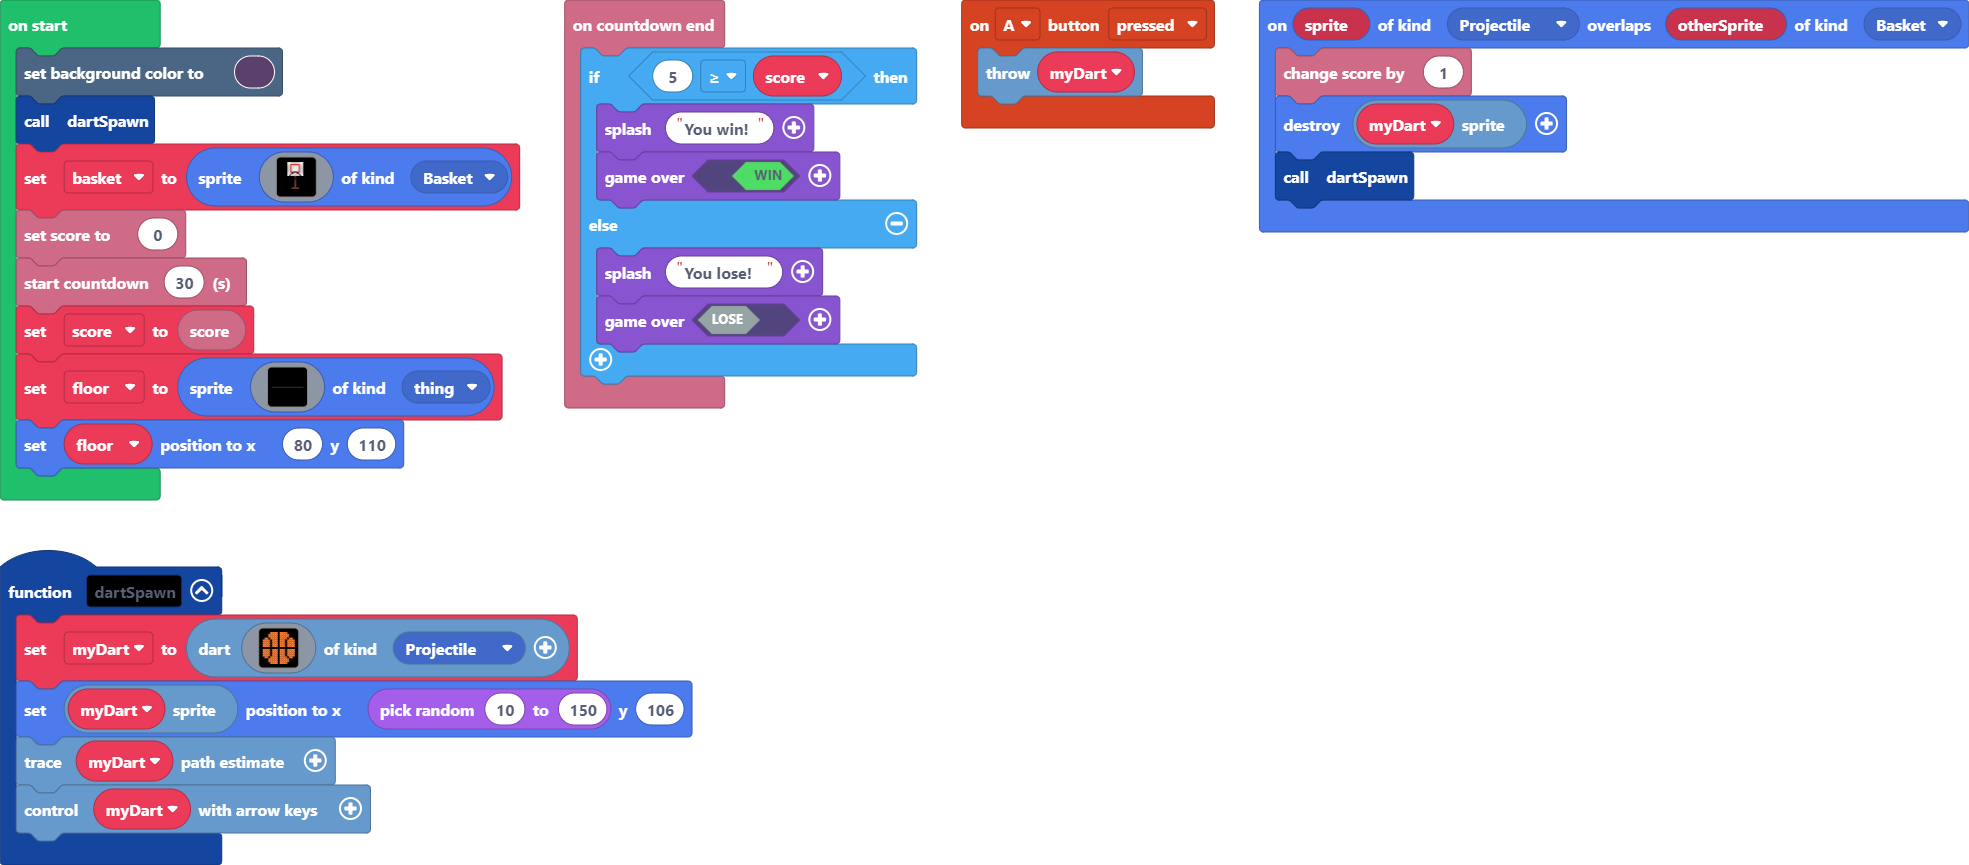
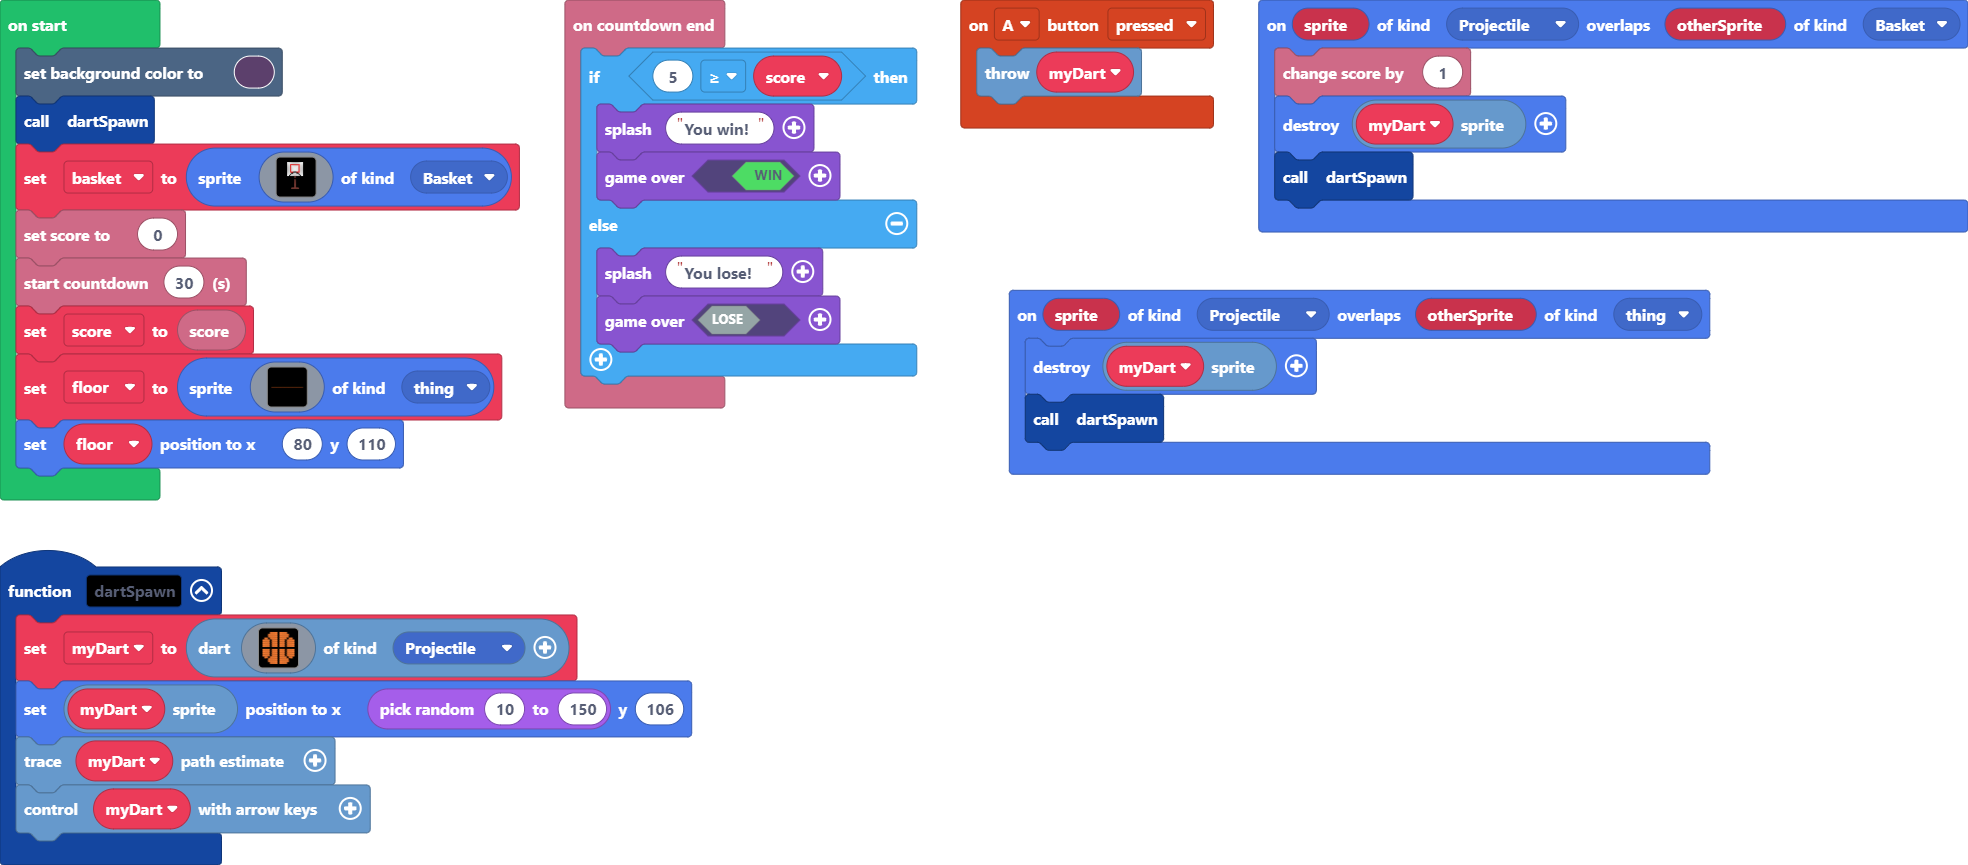
Update main.blocks, main.ts

diff --git a/main.ts b/main.ts
@@ -43,6 +43,10 @@ function dartSpawn () {
     myDart.setTrace()
     myDart.controlWithArrowKeys()
 }
+sprites.onOverlap(SpriteKind.Projectile, SpriteKind.thing, function (sprite, otherSprite) {
+    myDart.sprite.destroy()
+    dartSpawn()
+})
 let myDart: Dart = null
 let score = 0
 scene.setBackgroundColor(12)
